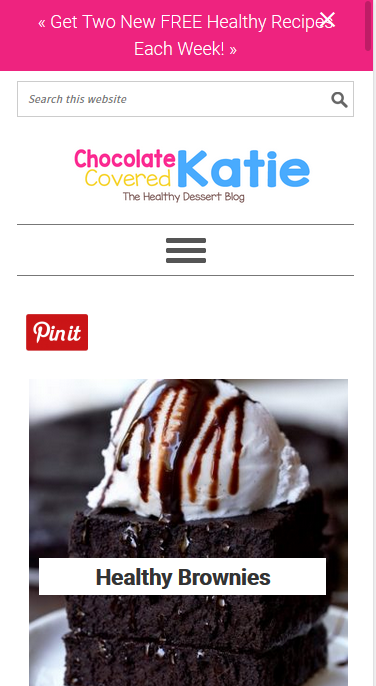
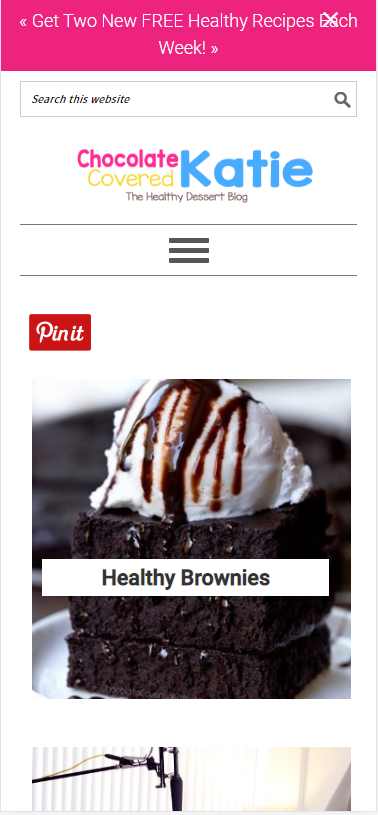
text image updates padding

diff --git a/lesson2/design-principles.html b/lesson2/design-principles.html
@@ -35,9 +35,10 @@
 		<h4>Chocolate Covered Catie</h4>
 		<a href="https://chocolatecoveredkatie.com/"><h4>chocolatecoveredkatie.com</h4></a>
 			<img src="images/cck.png">
-			<p>Say some stuff about repetition.
-				<br>
-				Lorem ipsum dolor sit amet, an mei assentior dissentias sadipscing, eos ut falli discere. Pro ei agam legimus placerat, ludus molestiae eam ex. No sea ludus nostrud corrumpit. Sea reque scripta officiis ut, in impedit appareat his, est ne semper lobortis petentium. Ex vix exerci pericula imperdiet, quo te zril delenit. Ius inani sonet verterem eu.
+			<p>Chocolate Covered Katie uses the principle of repetition on her website. The colors of her site title are repeated in various places throughout the page. It begins with the header of her page. The color of the header is also the color of the buttons on the main page and the color of the links. 
+			<br><br>The colors of her site title are also tied into the colors of the buttons on her navigation bar. The repetition even goes as far as matching the colors of her profile image and her cookbook.
+			<br><br>It’s a great example of repetition and how using color throughout the site ties everything together.
+
 			</p>
 		
 	</section>
@@ -49,9 +50,14 @@
 		<h4>Dress Barn</h4>
 		<a href="https://dressbarn.com/"><h4>dressbarn.com</h4></a>
 			<img src="images/db.png">
-			<p>Say some stuff about contrast
-				<br>
-				Lorem ipsum dolor sit amet, an mei assentior dissentias sadipscing, eos ut falli discere. Pro ei agam legimus placerat, ludus molestiae eam ex. No sea ludus nostrud corrumpit. Sea reque scripta officiis ut, in impedit appareat his, est ne semper lobortis petentium. Ex vix exerci pericula imperdiet, quo te zril delenit. Ius inani sonet verterem eu.
+			<p>Dress Barn’s website uses the principle of contrast. Their use of contrast is not only in color, but in typography as well. 
+				<br><br>
+				The bold color of red is contrasted with the colors of black and white. Both these colors stand out in their respective ways like they are designed to here. The value of the colors is distinctly different from that of the red. 
+				<br><br>
+				The contrast of the typography is in the way the black typeface is different that the white. While both are serif typefaces, the white is italicized and thus making it different from the black writing in two ways. 
+				<br><br>
+				The body text and the “SHOP NOW” in the red section are made with a san-serif typeface. This is a direct contrast to the serif typeface above. That is a very common design principle. 
+				
 			</p>
 	</section>
 		
@@ -62,9 +68,10 @@
 		<h4>Cathy Zielske</h4>
 		<a href="https://www.cathyzielske.com/"><h4>cathyzielske.com</h4></a>
 			<img src="images/cz.png">
-			<p>Say some stuff about white space and clean design.
-				<br>
-				Lorem ipsum dolor sit amet, an mei assentior dissentias sadipscing, eos ut falli discere. Pro ei agam legimus placerat, ludus molestiae eam ex. No sea ludus nostrud corrumpit. Sea reque scripta officiis ut, in impedit appareat his, est ne semper lobortis petentium. Ex vix exerci pericula imperdiet, quo te zril delenit. Ius inani sonet verterem eu.
+			<p>When thinking about white space and clean design, I always think of Cathy Zielske. She is known for it. It is not surprise that her website is styled in the same way. The white space and clean design are pleasing and comforting to the eyes. 
+			<br><br>
+			There is an ample amount of padding around the images and other design elements. The site isn’t “busy.” There is a lot of neutral colors throughout the page. The color that is used is not overbearing.  These help keep it nice, clean, and uncluttered. 
+				
 			</p>
 	</section>
 </main>

diff --git a/lesson2/css/small.css b/lesson2/css/small.css
@@ -54,6 +54,7 @@ img {
     display: block;
     margin-left: auto;
     margin-right: auto;
+    padding: 15px;
     
 }
 
